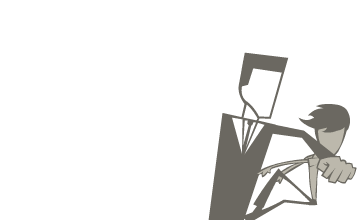
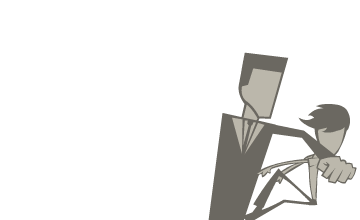
Nicky and Mother emotion

Changed region(s): [[0.6417, 0.3, 0.7944, 0.6818]]

diff --git a/js/game/dinner_5.js b/js/game/dinner_5.js
@@ -154,7 +154,10 @@ function Casual_2(){
 		"DAD I'M BISEXUAL AND BANGING JACK.": function(message){
 			$.tried_talking_about_it = true;
 
+			Show("nicky","dinner_nick_outrage");
 			n("DAD I'M BI--");
+			Show("nicky","dinner_nick_sit");
+
 			m("BICYCLING to school every day starting next week.");
 			f("Oh good!");
 			f("You could certainly lose some weight, or else how will you get a girlfriend?");
@@ -174,6 +177,8 @@ function Getting_A_Tutor(){
 	f("Oh! Is this the Claire kid?");
 
 	// Oh dang!
+	Show("nicky","dinner_nick_defiant");
+
 	switch($.promise_silence){
 		case "yes":
 			n("Mom, we both promised we wouldn't talk about this...");
@@ -294,6 +299,7 @@ function Agree_With_Dad(){
 			
 			n(message);
 			
+			Show("mom","mom_cry");
 			m("[sob]");
 			f(". . .");
 			Argument_Ending();
@@ -326,6 +332,8 @@ function Agreeable_Ending(){
 	$.father_oblivious = true;
 
 	f("For a moment there, Nick, I thought you'd been smoking pot with your hippie classmate Jack, or something!");
+
+	Show("nicky","dinner_nick_sit");
 	n(". . .");
 	f("So!");
 	f("Who wants to watch a movie this weekend? I hear Inception is good.");
@@ -380,7 +388,10 @@ function Argue_With_Dad(){
 		"My boyfriend.": function(message){
 			
 			n(message);
+
+			Show("mom","mom_cry");
 			m("[sob]");
+
 			m("Jack did this to our son!");
 			f("That kid chose his lifestyle, but I will not have it be yours, Nick.");
 			Argument_Ending();
@@ -389,7 +400,9 @@ function Argue_With_Dad(){
 
 			n(message);
 
+			Show("mom","mom_cry");
 			m("[sob]");
+
 			f("You made your mother cry.");
 			if($.hippies){
 				m("And his parents are drug addicts!");
@@ -401,7 +414,9 @@ function Argue_With_Dad(){
 
 			n(message);
 
+			Show("mom","mom_cry");
 			m("[sob]");
+
 			m("Jack IS gay!");
 			if($.hippies){
 				m("And his parents are drug addicts!");
@@ -448,6 +463,7 @@ function Argument_Ending(){
 	f("I swear, if I have to pay Claire extra to make you realize you're straight, I will.");
 	n(". . .");
 
+	Show("mom","mom_sit");
 	if($.crying=="anger"){
 		m("When I was crying earlier, he accused it of being fake!");
 		f("Qi, shut up. We're not talking about you.");
@@ -466,6 +482,8 @@ function Argument_Ending(){
 			n("Yes.");
 			n("FUCK this.");
 			n("And FUCK you.");
+			
+			Show("nicky","dinner_nick_outrage");
 			n("Fuck BOTH of you, you narcissistic slimy pieces of SHI--");
 			
 			Dinner_Ending_Punch();

diff --git a/js/game/dinner_4.js b/js/game/dinner_4.js
@@ -33,6 +33,8 @@ function My_Fault(message){
 	m("[sob]");
 	m("Oh Nick! My poor baby!");
 
+	Show("nicky","dinner_nick_sit");
+
 	Choose({
 		"Mom... please don't cry...": Cry_1,
 		"Quit your fake crying.": Cry_2,
@@ -57,6 +59,7 @@ function Cry_1(message){
 function Cry_2(message){
 
 	$.crying = "anger";
+	Show("nicky","dinner_nick_defiant");
 
 	n(message);
 	m("huu... huu... huu...");
@@ -72,6 +75,7 @@ function Cry_2(message){
 function Cry_3(message){
 
 	$.crying = "mocking";
+	Show("nicky","dinner_nick_outrage");
 
 	n("BAWWWWW");
 	m("huu... huu... huu...");
@@ -85,9 +89,12 @@ function Cry_3(message){
 }
 
 function What_Are_You(){
+
 	m(". . .");
 	m("Nick... what are you?");
 	n("Excuse me?");
+
+	Show("nicky","dinner_nick_sit");
 
 	Show("mom","mom_sit");
 	m("What <i>are</i> you?");
@@ -162,9 +169,14 @@ function Have_You_Had_Sex_2(){
 
 	n(". . .");
 	m("Which... one of you is the woman?");
+
+	Show("nicky","dinner_nick_outrage");
+
 	n("OH COME ON!");
 	n("That's like asking which chopstick is the spoo--");
 	m("Which one of you?...");
+
+	Show("nicky","dinner_nick_defiant");
 
 	Choose({
 		"I'm usually the bottom.":function(message){
@@ -281,5 +293,6 @@ function Father_Soon(message){
 }
 
 function Father_Soon_2(){
+	Show("nicky","dinner_nick_sit");
 	Start_Dinner_5();
 }

diff --git a/js/game/dinner_3.js b/js/game/dinner_3.js
@@ -117,6 +117,9 @@ function Tutor_Matchmake(message){
 
 			n(message);
 			m("Um. Bi?...");
+
+			Show("nicky","dinner_nick_defiant");
+
 			n("Yes. As in BISEXUAL.");
 			n("As in I AM SEXUALLY ATTRACTED TO BOTH MEN AND WOMEN.");
 			m(". . .");
@@ -180,6 +183,8 @@ function Tutor_Forget(message){
 
 function Threat_Tutor(){
 	
+	Show("nicky","dinner_nick_defiant");
+	
 	n(". . .");
 	m("Claire will be tutoring you every day after school, starting tomorrow.");
 
@@ -221,6 +226,9 @@ function Threat_School(){
 	$.changing_schools = true;
 	
 	m("You're changing schools.");
+
+	Show("nicky","dinner_nick_outrage");
+
 	n("WHAT?!");
 	m("I think it's not just Jack, it's the entire school that's a bad influence on you.");
 	n("ARE YOU SERIOUS.");
@@ -256,6 +264,8 @@ function Plot_Twist(){
 
 	m("Yesterday, when you were supposedly studying with Jack?");
 	m("I know you secretly went off to watch a movie.");
+
+	Show("nicky","dinner_nick_sit");
 	n(". . .");
 
 	Show("clock_time","clock_1920");

diff --git a/js/game/dinner_2.js b/js/game/dinner_2.js
@@ -295,6 +295,7 @@ function Buddy_Aftermath(){
 	m("Jack might, you know, try to recruit you.");
 
 	Show("clock_time","clock_1910");
+	Show("nicky","dinner_nick_defiant");
 
 	Choose({
 		"what.": Buddy_Aftermath_2,
@@ -313,6 +314,8 @@ function Buddy_Aftermath_2(message){
 	n("No, mom, stop doing th--");
 	m("Let's go back to talking about your grades.");
 	m("Now, what did you say you were studying tomorrow?");
+
+	Show("nicky","dinner_nicky_sit");
 	n(". . .");
 	n("Errrmmmmm...");
 

diff --git a/js/config/art.js b/js/config/art.js
@@ -6,6 +6,8 @@ Still("dinner_table","img/stills/dinner_table.png");
 Still("dinner_table_2","img/stills/dinner_table_2.png");
 
 Still("dinner_nicky_sit","img/stills/dinner_nicky_sit.png");
+Still("dinner_nicky_defiant","img/stills/dinner_nicky_defiant.png");
+Still("dinner_nicky_outrage","img/stills/dinner_nicky_outrage.png");
 Still("dinner_nicky_punched","img/stills/dinner_nicky_punched.png");
 
 Still("mom_stand","img/stills/mom_stand.png");
